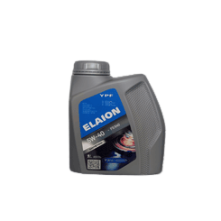
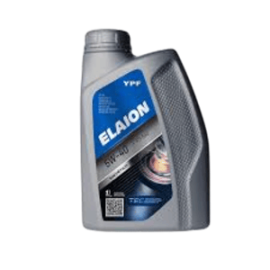
morning updated

Changed region(s): [[0.2715, 0.0814, 0.7873, 0.8688]]

diff --git a/myJob/index.html b/myJob/index.html
@@ -234,7 +234,7 @@
                     </div>
 
                     <div class="col-md-3 card projeto-oleo elaion" id="estrutura-card">
-                        <img src="photos/oleos/elaion10w40.jpg" alt="Elaion 10w40" class="img-fluid">
+                        <img src="photos/oleos/elaion10w40.png" alt="Elaion 10w40" class="img-fluid">
                         <div class="card-body">
                             <h5 class="card-title">Óleo Elaion 10w40</h5>
                             <p class="card-text">Semi-Sintético</p>
@@ -470,7 +470,7 @@
                     </div>
 
                     <div class="col-md-3 card projeto-oleo elaion" id="estrutura-card">
-                        <img src="photos/oleos/elaion10w40.jpg" alt="Elaion 10w40" class="img-fluid">
+                        <img src="photos/oleos/elaion10w40.png" alt="Elaion 10w40" class="img-fluid">
                         <div class="card-body">
                             <h5 class="card-title">Óleo Elaion 10w40</h5>
                             <p class="card-text">Semi-Sintético</p>
@@ -564,7 +564,7 @@
                 <!-- filtros simples  -->
                 <div class="row espaco-card space-around-card" id="row-filtros">
                     <div class="col-md-12">
-                        <h2 class="titles-sessoes">Filtros de Óleo</h2>
+                        <h2 class="titles-sessoes espacamento-title">Filtros de Óleo</h2>
                     </div>
 
                     <!-- btns dos filtro de oleo  -->
@@ -758,7 +758,7 @@
                 <div class="row espaco-card space-around-card" id="row-filtros-pesados">
 
                     <div class="col-md-12" style="margin: 40px 0px;">
-                        <h2 class="titles-sessoes">Filtros Pesados</h2>
+                        <h2 class="titles-sessoes espacamento-title">Filtros Pesados</h2>
                     </div>
 
                     <!-- BTNS FILTROS PESADOS  -->
@@ -894,7 +894,7 @@
                 <!-- SIMPLES -->
                 <div class="row espaco-card space-around-card" id="row-filtro-combus-simples">
                     <div class="col-12">
-                        <h2 class="titles-sessoes" style="margin-bottom: 60px;">Filtros de combustível (simples)</h2>
+                        <h2 class="titles-sessoes espacamento-title">Filtros de combustível (simples)</h2>
                     </div>
 
                     <!-- btns de filtrar pesquisa -->
@@ -970,7 +970,7 @@
                 <!-- PESADOS  -->
                 <div class="row espaco-card space-around-card" id="row-filtro-combus">
                     <div class="col-12">
-                        <h2 class="titles-sessoes" style="margin-bottom: 60px; margin-top: 30px;">Filtros de Combustível (Pesados)</h2>
+                        <h2 class="titles-sessoes espacamento-title">Filtros de Combustível (Pesados)</h2>
                     </div>
 
                     <!-- btns de filtrar pesquisa -->
@@ -1134,7 +1134,7 @@
                 <!-- FILTROS DE AR DO MOTOR -->
                 <div class="row espaco-card space-around-card" id="row-filtros-ar-motor">
                     <div class="col-12">
-                        <h2 class="titles-sessoes" style="margin-bottom: 60px;">Filtros de Ar do Motor</h2>
+                        <h2 class="titles-sessoes espacamento-title">Filtros de Ar do Motor</h2>
                     </div>
 
                     <!-- BTNS DOS FILTROS DE AR  -->
@@ -6504,6 +6504,28 @@
                         </div>
                     </div>
 
+                    <div class="col-md-3 card fiat">
+                        <img src="photos/escapamentos/inter/20102.png" alt="20102" class="img-fluid">
+                        <div class="card-body">
+                            <h5 class="card-title">Intermediário</h5>
+                            <h5 class="card-title">20102</h5>
+                            <p class="card-text">Linha Fiat</p>
+
+                            <button type="button" class="padraoBtn" data-bs-toggle="modal" data-bs-target="#20102">Aplicações</button>
+                        </div>
+                    </div>
+
+                    <div class="col-md-3 card fiat">
+                        <img src="photos/escapamentos/inter/20732.png" alt="20732" class="img-fluid">
+                        <div class="card-body">
+                            <h5 class="card-title">Intermediário C/Flexível</h5>
+                            <h5 class="card-title">20732</h5>
+                            <p class="card-text">Linha Fiat</p>
+
+                            <button type="button" class="padraoBtn" data-bs-toggle="modal" data-bs-target="#20732">Aplicações</button>
+                        </div>
+                    </div>
+
 
                     <!-- gm  -->
                     <div class="col-md-3 card gm">
@@ -6569,6 +6591,28 @@
                             <p class="card-text">Linha GM</p>
 
                             <button type="button" class="padraoBtn" data-bs-toggle="modal" data-bs-target="#GM2806M">Aplicações</button>
+                        </div>
+                    </div>
+
+                    <div class="col-md-3 card gm">
+                        <img src="photos/escapamentos/inter/GM2809F.png" alt="GM2809F" class="img-fluid">
+                        <div class="card-body">
+                            <h5 class="card-title">Intermediário</h5>
+                            <h5 class="card-title">GM2809F</h5>
+                            <p class="card-text">Linha GM</p>
+
+                            <button type="button" class="padraoBtn" data-bs-toggle="modal" data-bs-target="#GM2809F">Aplicações</button>
+                        </div>
+                    </div>
+
+                    <div class="col-md-3 card gm">
+                        <img src="photos/escapamentos/inter/GM2605E.png" alt="GM2605E" class="img-fluid">
+                        <div class="card-body">
+                            <h5 class="card-title">Intermediário C/Flexível</h5>
+                            <h5 class="card-title">GM2605E</h5>
+                            <p class="card-text">Linha GM</p>
+
+                            <button type="button" class="padraoBtn" data-bs-toggle="modal" data-bs-target="#GM2605E">Aplicações</button>
                         </div>
                     </div>
 
@@ -6652,9 +6696,7 @@
 
                 </div>
 
-                
-
-
+            
 
             </div>
         </div>
@@ -7193,7 +7235,130 @@
 </div>
 
 
+ <!-- 20102 -->   
+ <div class="modal fade" id="20102" aria-hidden="true" aria-labelledby="modal-filtro-label" tabindex="-1" >
+    <div class="modal-dialog modal-dialog-scrollable">
+
+        <div class="modal-content" id="modal-content">
+
+            <div class="modal-header">
+                <h2>Aplicações</h2>
+                <button class="btn-close" type="button" data-bs-dismiss="modal" aria-label="close"></button>
+            </div>
+                <div class="modal-body">
+                <h5>20102</h5>
+                <ul id="lista-aplicacoes">
+                    <li class="montadora">FIAT:</li>
+                    <li><span class="carro">Fiorino:</span> 1993-2002</li>
+                    <li><span class="carro">Pick-Up:</span> 1992-2002</li>
+                                        
+                </ul>
+            </div>
+
+            <div class="modal-footer" id="modalFooterDirecao">
+                <p><span class="carro">Marca:</span> <span class="marcas">Scapex</span></p>
+                <p class="carro">C-3727</p>
+            </div>
+        </div>
+    </div>
 </div>
+
+
+ <!-- GM2809F -->   
+ <div class="modal fade" id="GM2809F" aria-hidden="true" aria-labelledby="modal-filtro-label" tabindex="-1" >
+    <div class="modal-dialog modal-dialog-scrollable">
+
+        <div class="modal-content" id="modal-content">
+
+            <div class="modal-header">
+                <h2>Aplicações</h2>
+                <button class="btn-close" type="button" data-bs-dismiss="modal" aria-label="close"></button>
+            </div>
+                <div class="modal-body">
+                <h5>GM2809F</h5>
+                <ul id="lista-aplicacoes">
+                    <li class="montadora">GM:</li>
+                    <li><span class="carro">D-40</span> 1989..</li>
+                                        
+                </ul>
+            </div>
+
+            <div class="modal-footer" id="modalFooterDirecao">
+                <p><span class="carro">Marca:</span> <span class="marcas">Mastra</span></p>
+                <p class="carro">C-SEM</p>
+            </div>
+        </div>
+    </div>
+</div>
+
+
+ <!-- 20732 -->   
+ <div class="modal fade" id="20732" aria-hidden="true" aria-labelledby="modal-filtro-label" tabindex="-1" >
+    <div class="modal-dialog modal-dialog-scrollable">
+
+        <div class="modal-content" id="modal-content">
+
+            <div class="modal-header">
+                <h2>Aplicações</h2>
+                <button class="btn-close" type="button" data-bs-dismiss="modal" aria-label="close"></button>
+            </div>
+                <div class="modal-body">
+                <h5>20732</h5>
+                <ul id="lista-aplicacoes">
+                    <li class="montadora">FIAT:</li>
+                    <li><span class="carro">Palio:</span> FIRE 2009-2011</li>
+                    <li><span class="carro">Palio-Weekend:</span> FIRE 2009-2011</li>
+                    <li><span class="carro">Siena:</span> 2009-2011</li>
+                    <li><span class="carro">Strada:</span> 2009-2015</li>
+                    <li><span class="carro">Uno:</span> 2010-2014</li>
+                                        
+                </ul>
+            </div>
+
+            <div class="modal-footer" id="modalFooterDirecao">
+                <p><span class="carro">Marca:</span> <span class="marcas">Scapex</span></p>
+                <p class="carro">C-3772</p>
+            </div>
+        </div>
+    </div>
+</div>
+
+
+ <!-- GM2605E -->   
+ <div class="modal fade" id="GM2605E" aria-hidden="true" aria-labelledby="modal-filtro-label" tabindex="-1" >
+    <div class="modal-dialog modal-dialog-scrollable">
+
+        <div class="modal-content" id="modal-content">
+
+            <div class="modal-header">
+                <h2>Aplicações</h2>
+                <button class="btn-close" type="button" data-bs-dismiss="modal" aria-label="close"></button>
+            </div>
+                <div class="modal-body">
+                <h5>GM2605E</h5>
+                <ul id="lista-aplicacoes">
+                    <li class="montadora">GM:</li>
+                    <li><span class="carro">Celta:</span> 2011..</li>
+                    <li><span class="carro">Classic:</span> 2011-2014</li>
+                    <li><span class="carro">Prisma:</span> 2011-2012</li>
+                                        
+                </ul>
+            </div>
+
+            <div class="modal-footer" id="modalFooterDirecao">
+                <p><span class="carro">Marca:</span> <span class="marcas">Mastra</span></p>
+                <p class="carro">C-3622</p>
+            </div>
+        </div>
+    </div>
+</div>
+
+
+
+
+</div>
+
+
 
 <!-- bojos -->
 <div>

diff --git a/myJob/css/index02.css b/myJob/css/index02.css
@@ -36,7 +36,6 @@
 .card{
     border: none;
     border-radius: none;
-    cursor: pointer;
     transition: 0.5s ease-in-out;
     background-color: transparent;
     

diff --git a/myJob/css/index.css b/myJob/css/index.css
@@ -131,7 +131,7 @@
     margin: 0px;
     padding: 10px 0px;
     background-color: #234d8b;
-    /*  */
+    
 }
 
 #estrutura-fast-src li{
